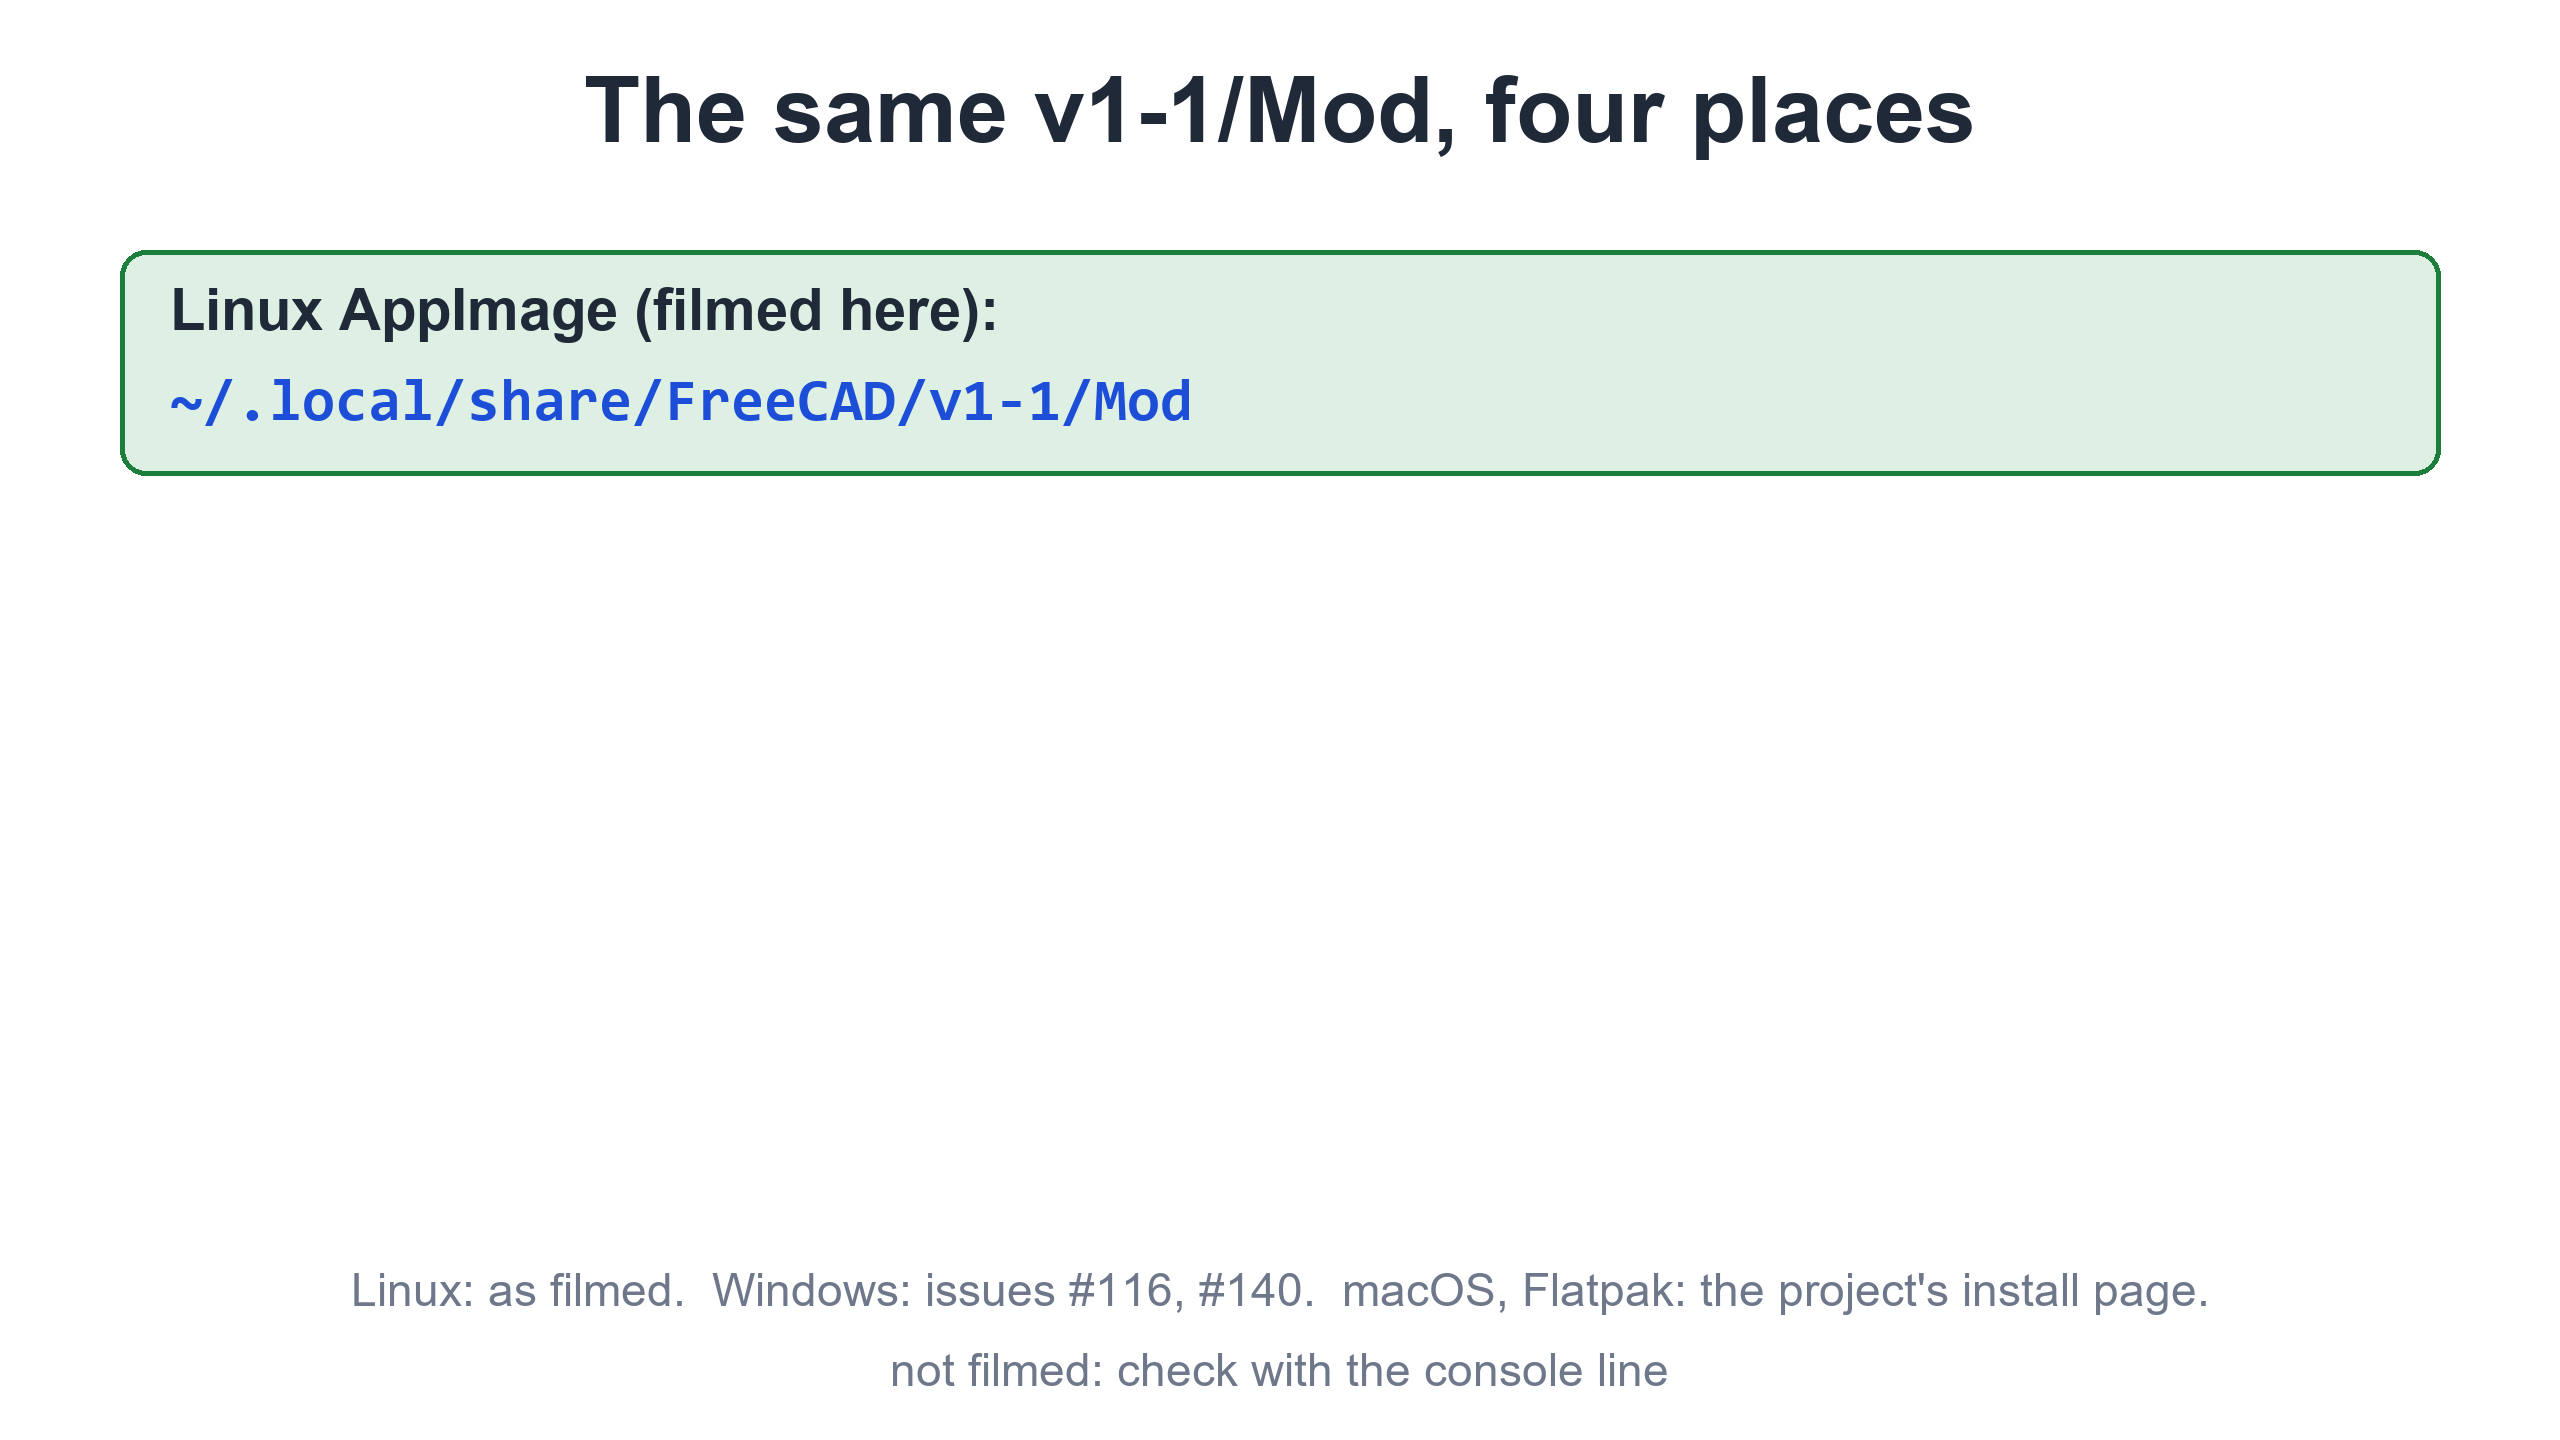
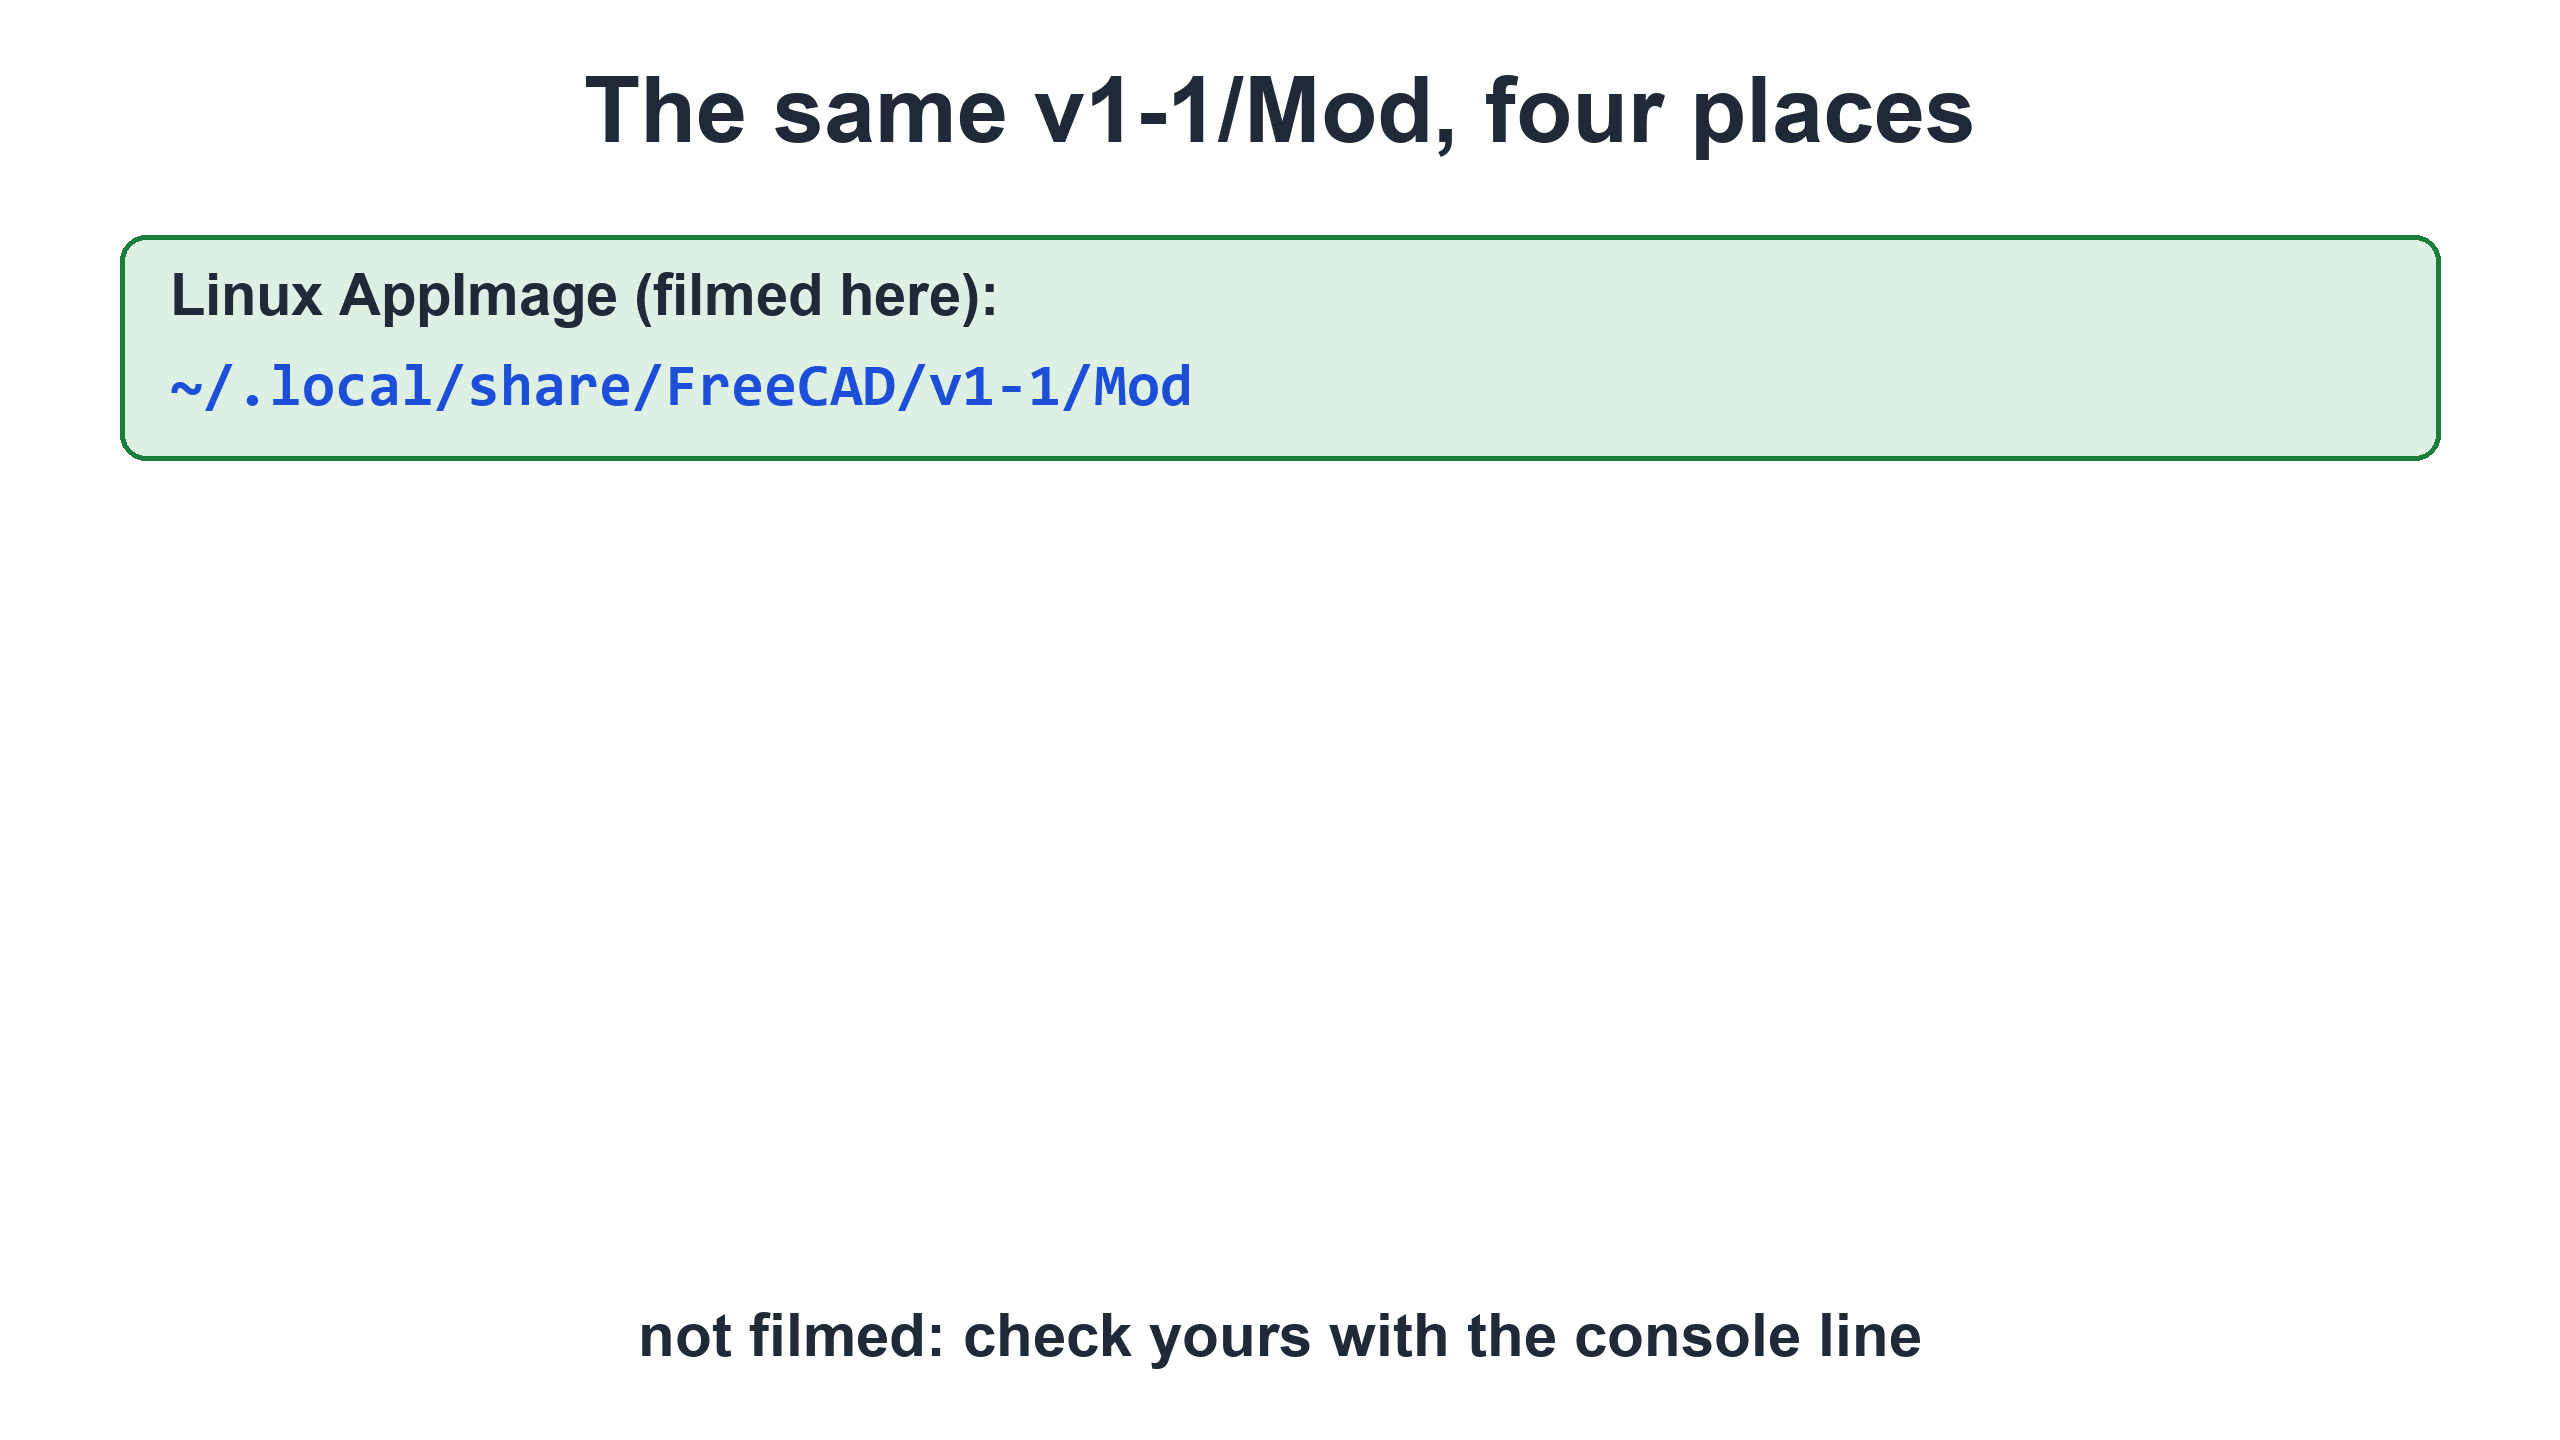
fx1 cut 3 cards: card-paths rows name their own source, one large footer line (the small footer was unreadable on a phone)

Changed region(s): [[0.0312, 0.1562, 0.9688, 0.3438], [0.125, 0.875, 0.875, 0.9688]]

diff --git a/video/draw_fx1.py b/video/draw_fx1.py
@@ -233,17 +233,17 @@ def card_cab(step):
 def card_paths(n=4):
     im, d = canvas()
     header(d, 'The same v1-1/Mod, four places')
+    # cut 3: each row names its own source (the small footer was unreadable on a phone); one large footer line
     rows = [('Linux AppImage (filmed here):', '~/.local/share/FreeCAD/v1-1/Mod'),
-            ('Windows:', '%APPDATA%\\FreeCAD\\v1-1\\Mod'),
-            ('macOS:', '~/Library/Application Support/FreeCAD/v1-1/Mod'),
-            ('Flatpak:', '~/.var/app/org.freecad.FreeCAD/data/FreeCAD/v1-1/Mod')]
+            ('Windows (project issues #116, #140):', '%APPDATA%\\FreeCAD\\v1-1\\Mod'),
+            ("macOS (the project's install page):", '~/Library/Application Support/FreeCAD/v1-1/Mod'),
+            ("Flatpak (the project's install page):", '~/.var/app/org.freecad.FreeCAD/data/FreeCAD/v1-1/Mod')]
     for k, (a, b) in enumerate(rows[:n]):
-        y = 250 + k * 255
+        y = 235 + k * 250
         box(d, 120, y, 2440, y + 225, fill=GREEN_BG if k == 0 else LIGHT, outline=GREEN if k == 0 else INK, w=5)
         text(d, (170, y + 60), a, 58, INK, B, 'lm')
         text(d, (170, y + 155), b, 60, BLUE, MONOB, 'lm')
-    text(d, (W / 2, 1290), "Linux: as filmed.  Windows: issues #116, #140.  macOS, Flatpak: the project's install page.", 46, GREY, R, 'mm')
-    text(d, (W / 2, 1370), 'not filmed: check with the console line', 46, GREY, R, 'mm')
+    text(d, (W / 2, 1335), 'not filmed: check yours with the console line', 60, INK, B, 'mm')
     save(im, f'card-paths-{n}.png')
 
 
